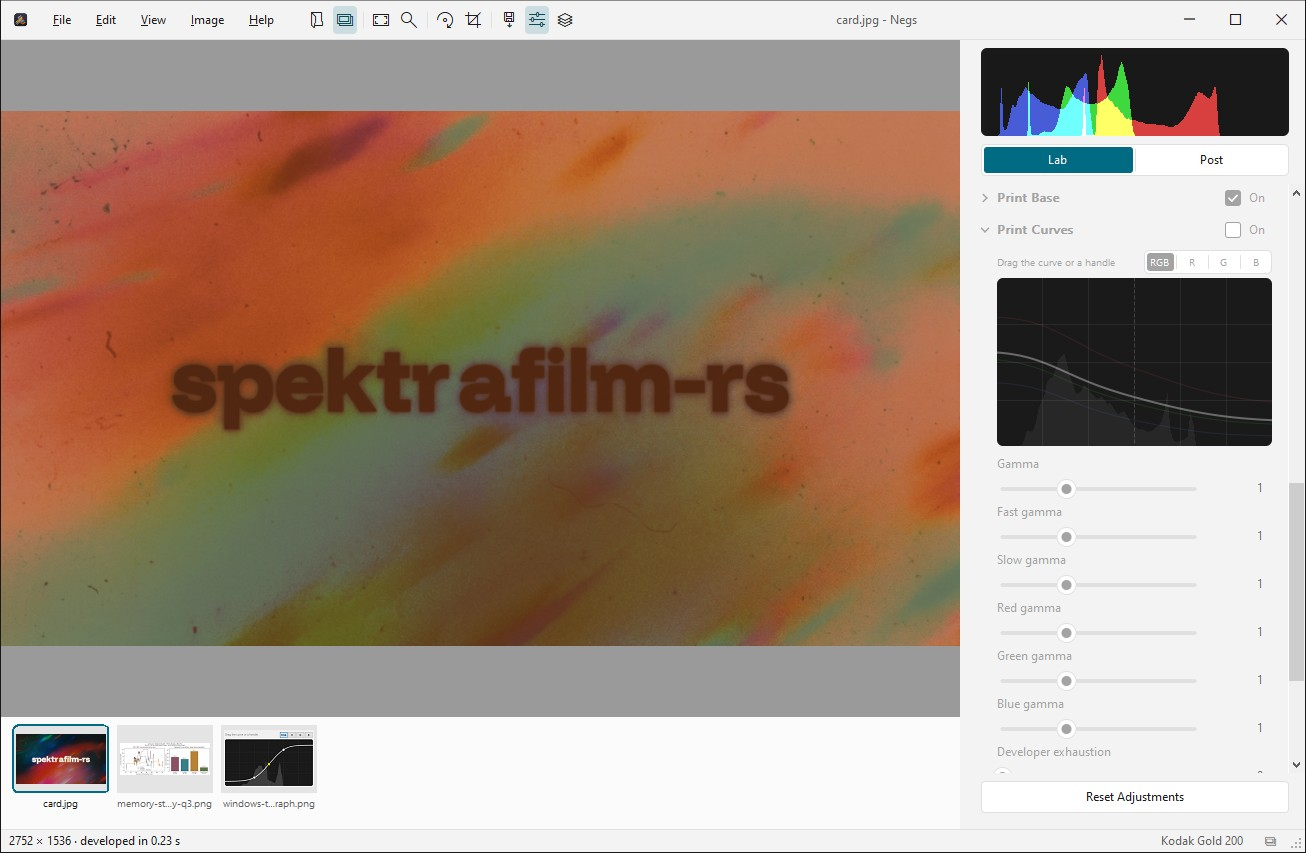
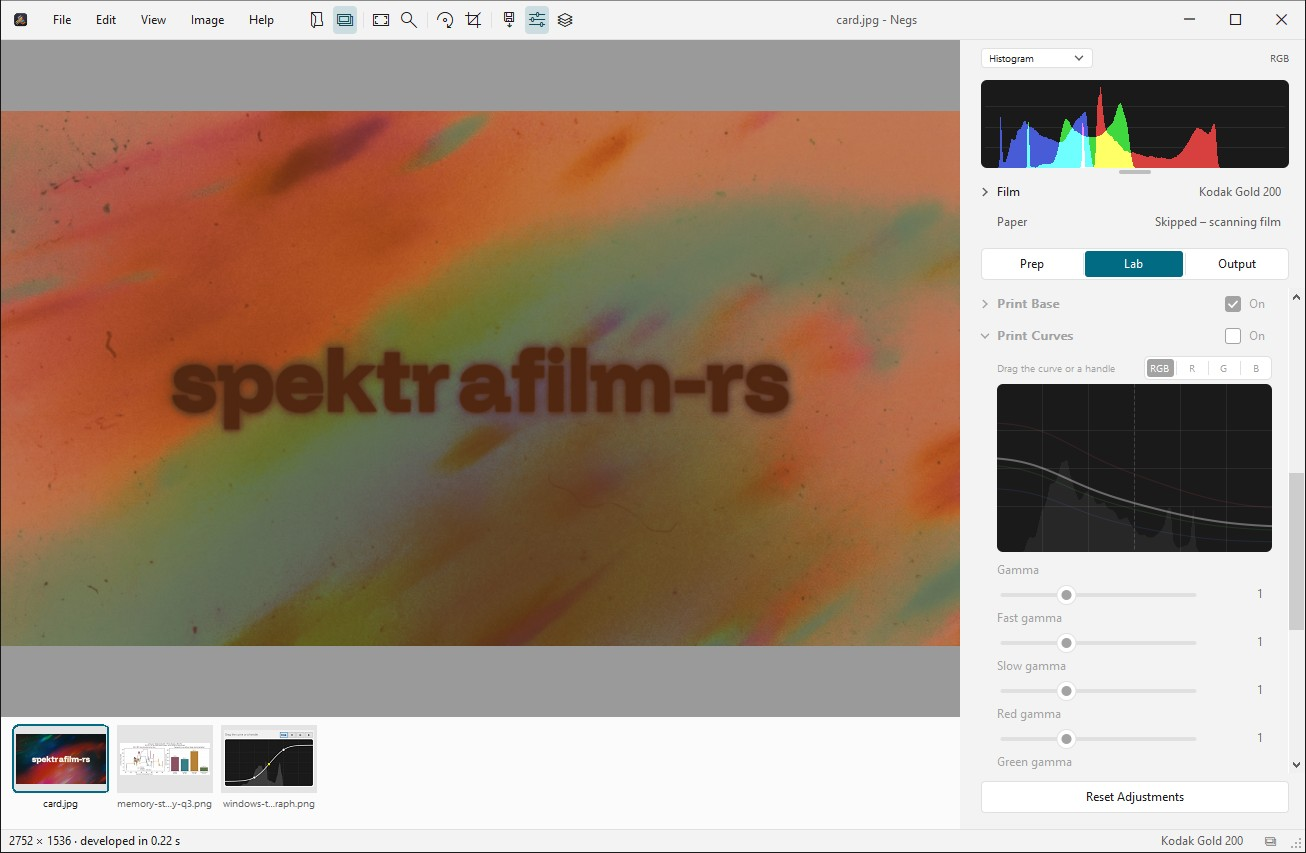
Document the Prep port in the polished look
Reconciles docs/windows-app.md: the Prep port's section points to the
polished screenshots and drops the slider fill from its open items; the
polish's earlier screenshots are marked as predating the Prep column; a
new section records the merge, the Prep chrome polish, 131 tests, 15
warnings, ABBA startup against origin/main and the Prep port, light and
dark screenshots and what is unverified. The tone graph screenshots are
retaken in the current column.

Changed region(s): [[0.7351, 0.0305, 1.0, 0.4877], [0.7657, 0.5182, 1.0, 0.9144], [0.9801, 0.7315, 1.0, 0.823]]

diff --git a/docs/windows-app.md b/docs/windows-app.md
@@ -291,8 +291,11 @@ update (Prep 113 µs, Lab 96 µs, release build, real catalog). Through the help
 NEF, Prep's controls add 35 ms per 12 MP drag frame, and the match itself takes about 0.3 s
 (`docs/windows-prep-port-plan.md`).
 
-Not done or not verified here: sliders filling from their default (part of the UI polish
-pass, `docs/handoff-windows-ui-polish.md`); the RAW samples with letterboxed previews and other
+The screenshots above are from before the UI polish; the polished Prep, Lab and Output are
+under [Prep in the polished look](#prep-in-the-polished-look), where sliders also fill from
+their default.
+
+Not done or not verified here: the RAW samples with letterboxed previews and other
 makers' colour spaces (no files on this PC; trimming and the maker-note readers are unit-tested
 only); Save and Export while a match is pending in the release app (unit-tested); Windows 11,
 150 % scaling and high contrast. Hover effects (the tile star) were seen only through the
@@ -391,7 +394,8 @@ per-combo dark themes (about 3.6 ms in dark) and per-control subclasses (about 1
 
 **Screenshots** (window only, `docs/windows-ui-polish/`): before is `origin/main`,
 which has no dark mode; it was captured with the system in dark and looks the same in
-light.
+light. These predate the Prep port's column (scope, pinned film and paper, three tabs);
+see [Prep in the polished look](#prep-in-the-polished-look) for the column as it is now.
 
 | | before | after, light | after, dark |
 |---|---|---|---|
@@ -491,7 +495,8 @@ the 10 ms allowed and of the size of the run-to-run noise. The graph isn't on sc
 startup with the default profile (Print Curves is closed), so its painting isn't in these
 numbers.
 
-**Screenshots** (window only, Print Curves open, `docs/card.jpg`):
+**Screenshots** (window only, Print Curves open on Lab with all controls, `docs/card.jpg`,
+retaken after the Prep merge below):
 [light](windows-ui-polish/after-light-tone-graph.jpg),
 [dark](windows-ui-polish/after-dark-tone-graph.jpg),
 [dark, R layer](windows-ui-polish/after-dark-tone-graph-red.jpg),
@@ -507,6 +512,73 @@ names it ("Print exposure 1.00 · drag sideways"); dragging it 30 px set Print e
 by a unit test only), the live light/dark switch (as above; the graph reads the palette on
 every paint and is repainted by the theme switch's `RedrawWindow`), 150 % scaling, and
 Narrator.
+
+### Prep in the polished look
+
+The Prep port (ticket 26, `windows-prep-port` at `b4d3bb8`, section above) was merged onto
+the polish after the tone graph. It was written against the pre-polish look, so the merge
+kept its structure and behaviour and the polish's painting:
+
+- **Merge** (`ui/inspector.rs`, 14 conflicts): the Prep port's scope with its grabber, the
+  pinned film and paper above the tabs, Prep | Lab | Output, `place_rows` and its new row
+  kinds, favourites and the film grid's own scrolling; with the polish's class backgrounds
+  from the palette, Canvas tiles, the scope's rounded corners, hover tracking on headers
+  (beside the Prep port's help tooltips), the 8 DIP grid and one control column for the new
+  rows (Film format, Match brightness, Show all controls, the skipped paper), and the slide
+  when a group opens in the scrolled rows (the pinned rows are placed directly). The
+  favourite star is drawn into the tile's Canvas; it sits on the photograph, so it keeps
+  its fixed gold and white. `ui/dialogs.rs` (2): Settings' new New Photographs and Preview
+  & Export sections on the polish's spacing, the New Photographs choice a drawn combo box
+  with a themed list.
+- **Polished afterwards:** the scope's Histogram | Waveform menu is a drawn combo box with a
+  themed list and its RGB label is from the palette (it had a light box in dark). The
+  grabber is drawn with `Canvas` (it was a light `COLOR_BTNFACE` strip in dark): a pill that
+  darkens under the pointer or while dragged, a focus ring after keyboard use, 8 DIP high.
+  Prep | Lab | Output is one switch, Lab its middle segment (`Role::SegmentMiddle`, added
+  for the tone graph's RGB | R | G | B). While film is scanned directly, the paper row is
+  as tall as the paper foldout it replaces, so the pinned area doesn't jump, and lines up
+  with it. The scope's well stays dark in both themes, like the histogram before it.
+
+**Results** (2026-11-03, this machine, as above): `cargo test --locked` passes all 131
+Windows tests (the Prep port's 130 and the high-contrast test). The release build has 15
+warnings, all pre-existing (`origin/main` 16, the Prep port 16); the tests build with 13.
+Startup, ABBA order, a warm-up each and 12 measured runs per build, fresh profiles (they
+open on Prep), medians in ms:
+
+| Build | first window composited | adjustments column shown | GPU ready | photograph on screen |
+|---|---|---|---|---|
+| `origin/main` (`6ec07ac`) | 111.6 | 307.2 | 652.1 | 972.2 |
+| this branch | 108.7 | 265.7 | 639.3 | 956.2 |
+| `windows-prep-port` (`b4d3bb8`) | 110.7 | 267.6 | 645.9 | 950.3 |
+| this branch | 111.1 | 266.3 | 634.8 | 944.3 |
+
+Measured at `0440147`; the later skipped-paper row only changes the layout while scanning.
+Against `origin/main` the column is 41 ms sooner, which is the Prep port's doing (it builds
+only Prep's rows first). Against the Prep port the polish is no slower on any stamp (+0.4 ms
+at most). Some runs had the fast GPU start: 3 of the branch's in the first comparison, 3 of
+the Prep port's and 4 of the branch's in the second. With slow-start runs only, the
+photograph was on screen at 972.2 against 959.5 ms and at 961.0 against 953.9 ms.
+
+**Screenshots** (window only, `docs/card.jpg`):
+
+| | light | dark |
+|---|---|---|
+| Prep | [light](windows-ui-polish/after-light-prep.jpg) | [dark](windows-ui-polish/after-dark-prep.jpg) |
+| Lab | [all controls](windows-ui-polish/after-light-lab-all.jpg) | [basics](windows-ui-polish/after-dark-lab-basics.jpg) |
+| Output | [light](windows-ui-polish/after-light-output.jpg) | |
+| Film grid, Portra 400 starred | [light](windows-ui-polish/after-light-film-grid.jpg) | [dark](windows-ui-polish/after-dark-film-grid.jpg) |
+| Waveform at 168 DIP | | [dark](windows-ui-polish/after-dark-waveform.jpg) |
+| Settings | [light](windows-ui-polish/after-light-settings-prep.png) | [dark](windows-ui-polish/after-dark-settings-prep.png) |
+
+**Behaviour**, through posted messages in the release build: the grabber's Down key twice
+made the scope 40 DIP taller and a double-click returned it to 88 (saved as `scopeHeight`);
+the three tabs each showed their own rows (Camera, Image Size, Brightness); the tone graph's
+row behaves as above.
+
+**Not verified here:** high contrast, the live light/dark switch, 150 % scaling, Narrator and
+Windows 11, as above; the tile star's hover and its click (only the favourite's filled star
+was seen, as in the Prep port's own check); dragging the grabber with the pointer; the
+scope menu's list opening dark (it uses the same handler as the column's lists).
 
 ## Packaging
 
